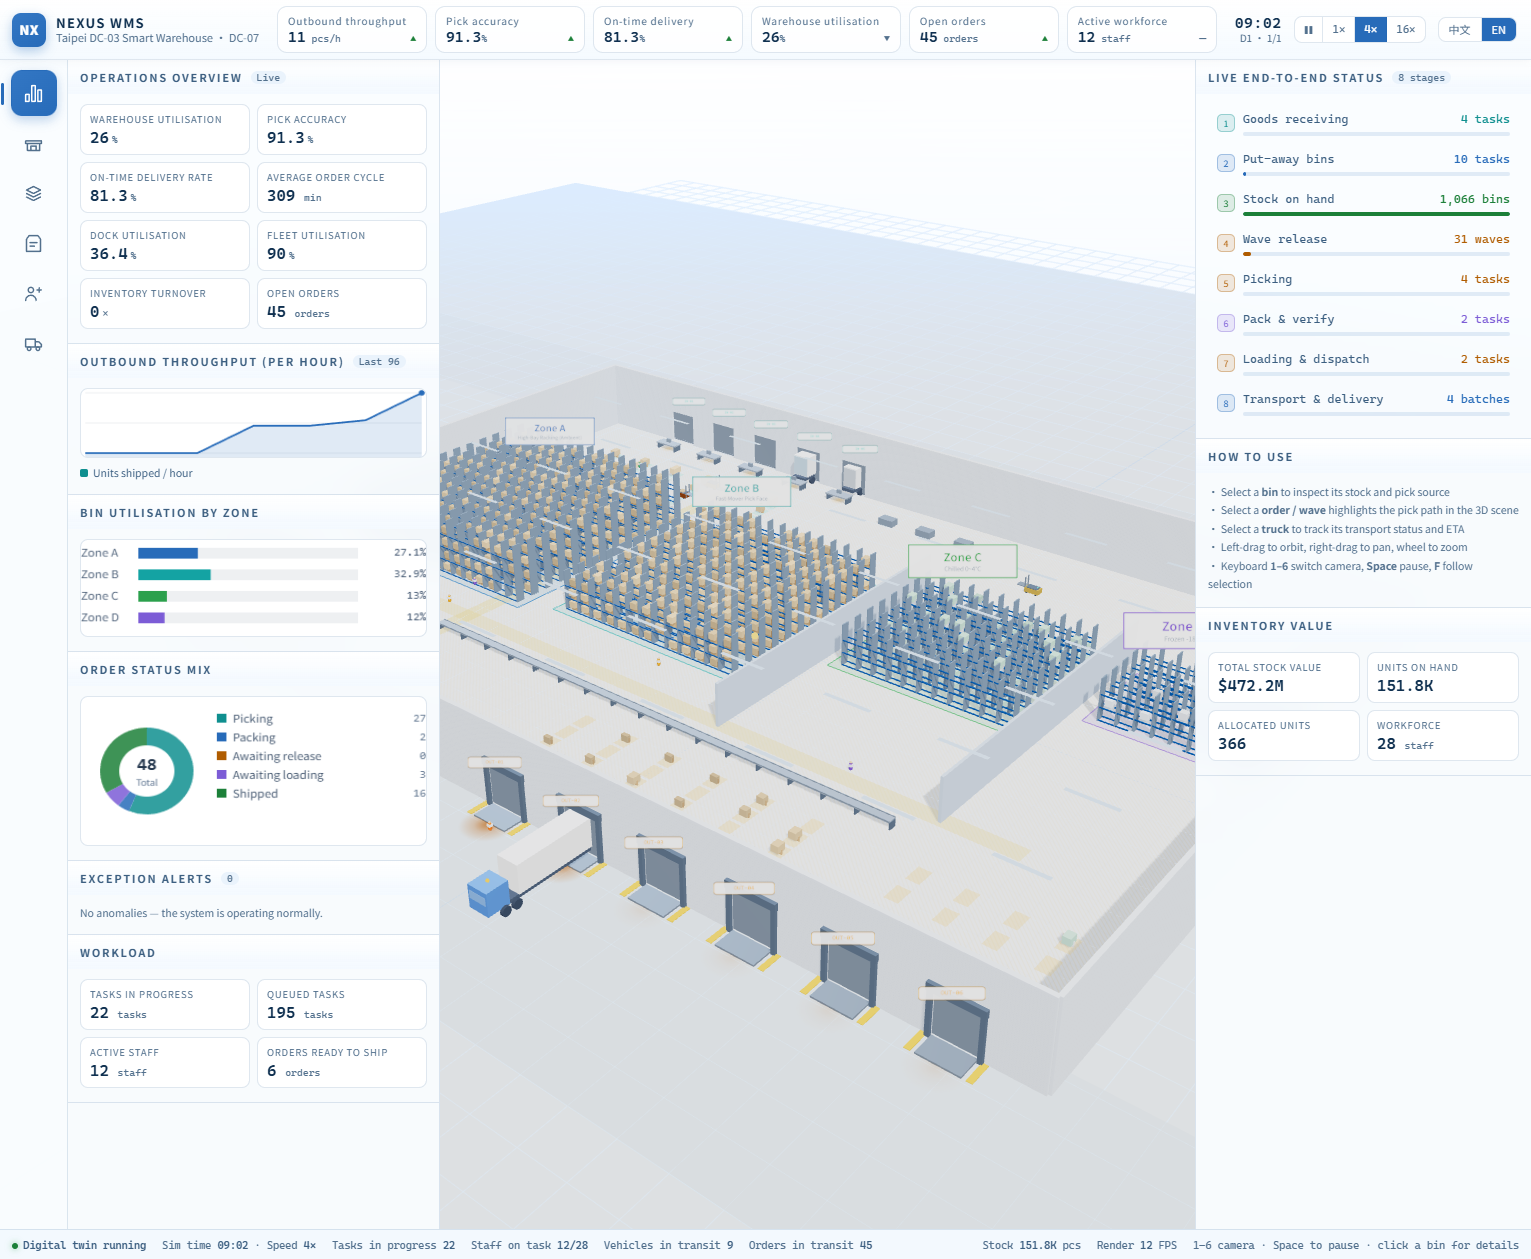
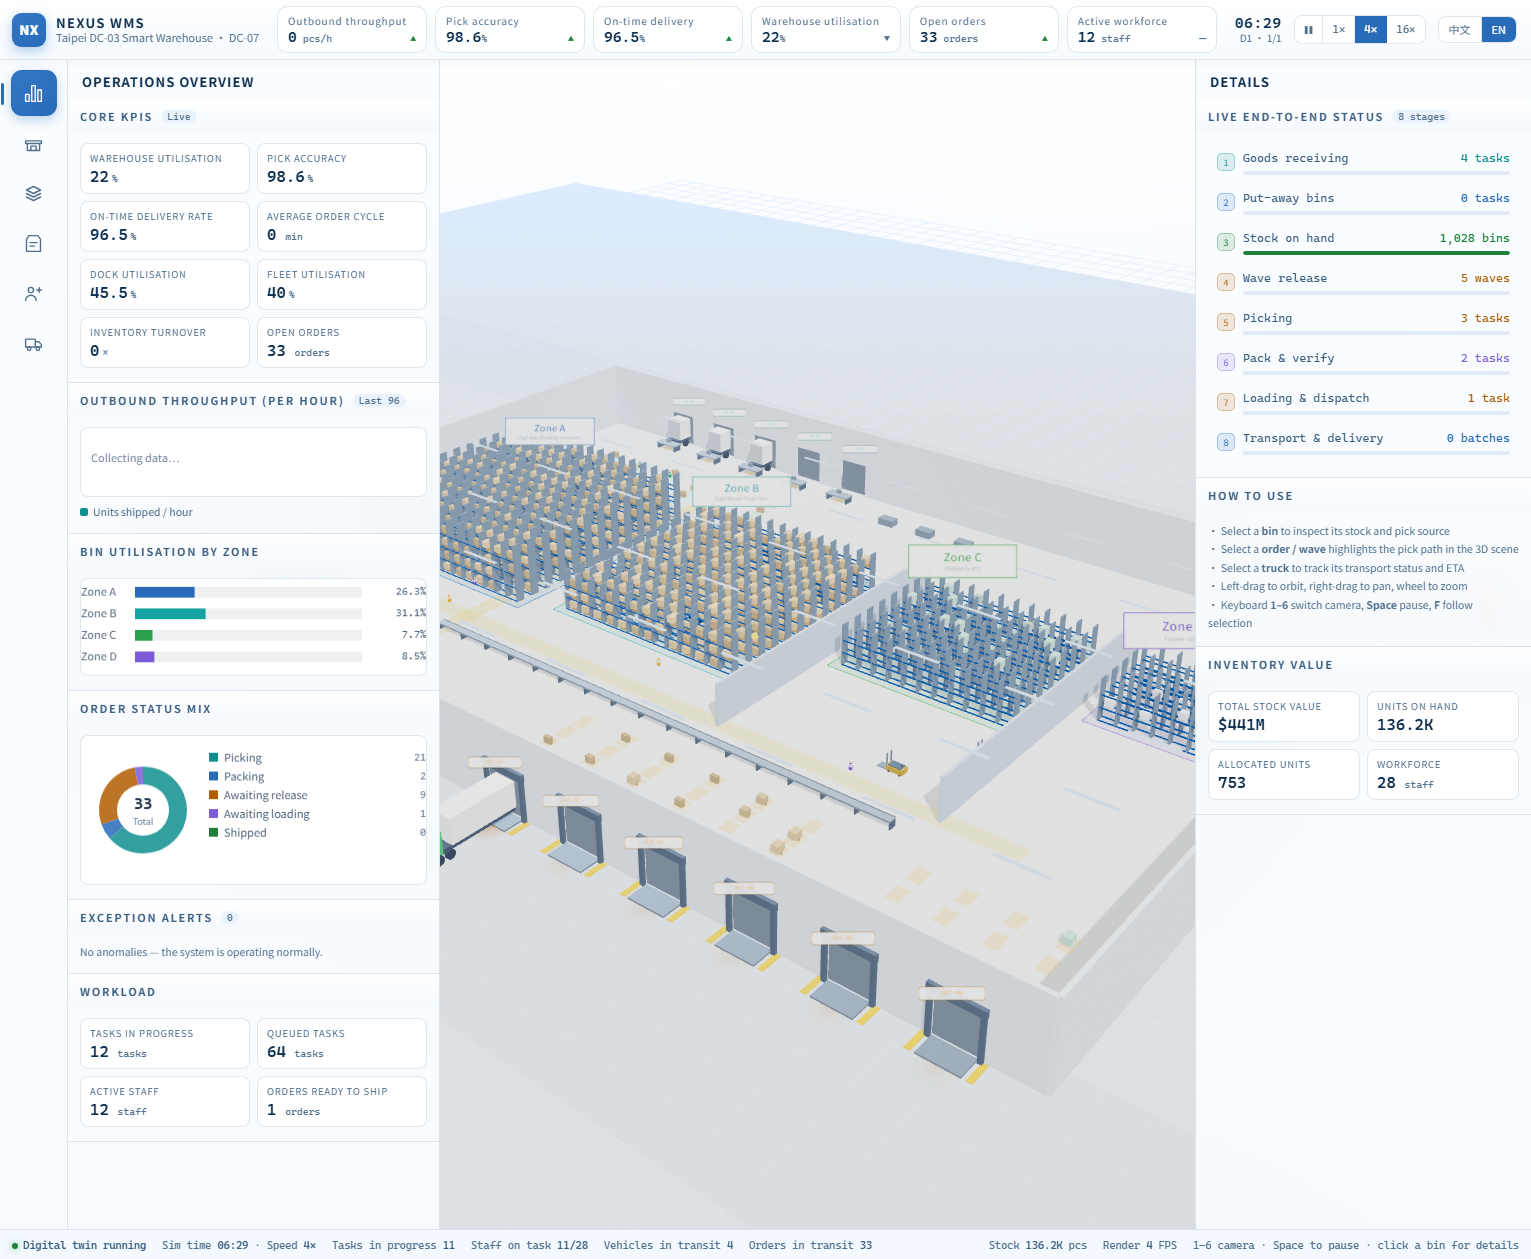
docs: make the documentation screenshots reproducible
The README screenshots were captured by hand, so they could silently drift away from the interface the project actually ships. Replace them with a generator that drives a real Chromium through the production build, lets the simulation populate, and captures each board through the same navigation a user uses.

- add scripts/generate-screenshots.mjs (npm run screenshots)
- fail with actionable messages when the preview server or Chromium is missing
- regenerate en-overview.png and zh-transport.png against the current UI
- document the process in docs/screenshots/README.md

diff --git a/docs/screenshots/README.md b/docs/screenshots/README.md
@@ -1,3 +1,22 @@
 # Screenshots
 
 Captured from the production build (`npm run preview`) at 1531 × 1259.
+
+| File | Contents |
+| --- | --- |
+| `en-overview.png` | Operations board, English interface |
+| `zh-transport.png` | Transport board, Traditional Chinese interface |
+
+These files are generated, not hand-captured, so they can never silently go
+stale against the running product:
+
+```bash
+npm run build
+npm run preview          # leave running in another terminal
+npm run screenshots      # requires: npx playwright install chromium
+```
+
+The generator drives a real Chromium, lets the simulation run for six seconds so
+the charts and counters show a populated facility rather than an empty one, then
+captures each board through the same navigation the user uses. Point it at a
+different deployment with `SCREENSHOT_URL=https://example.com npm run screenshots`.
